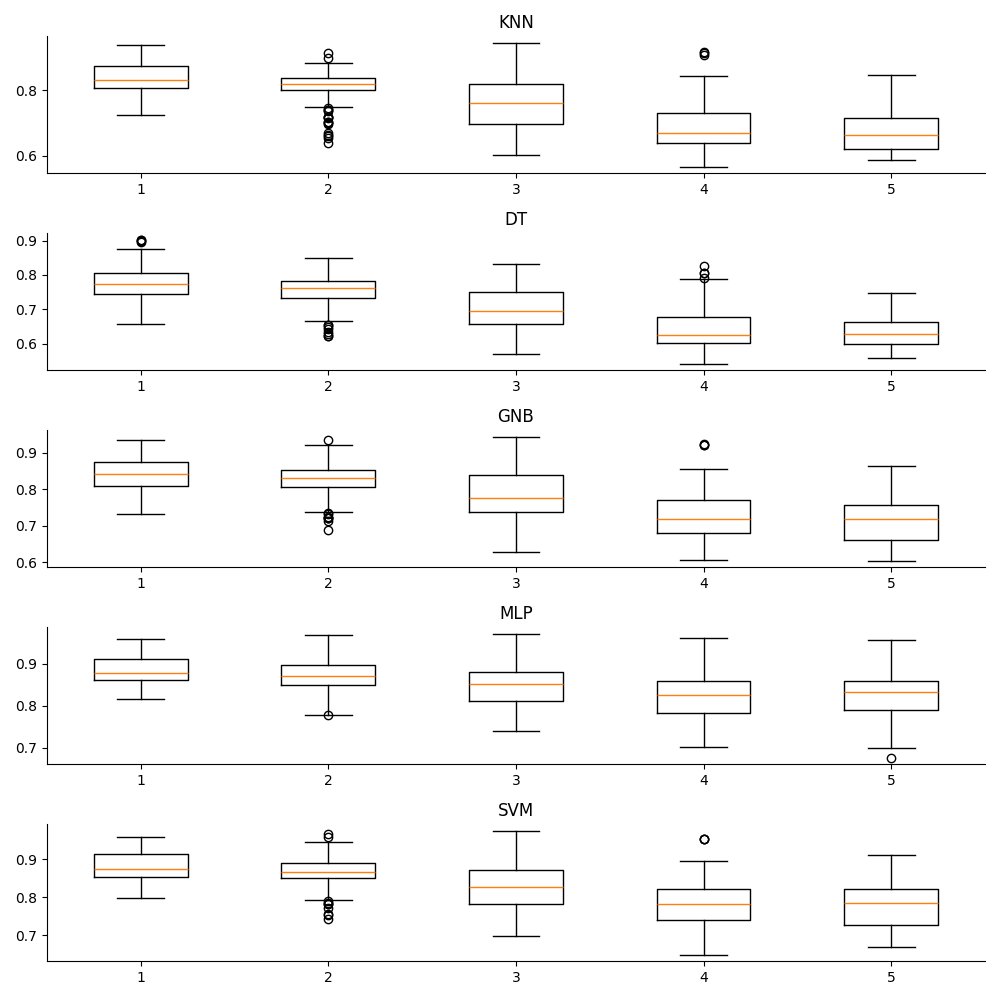
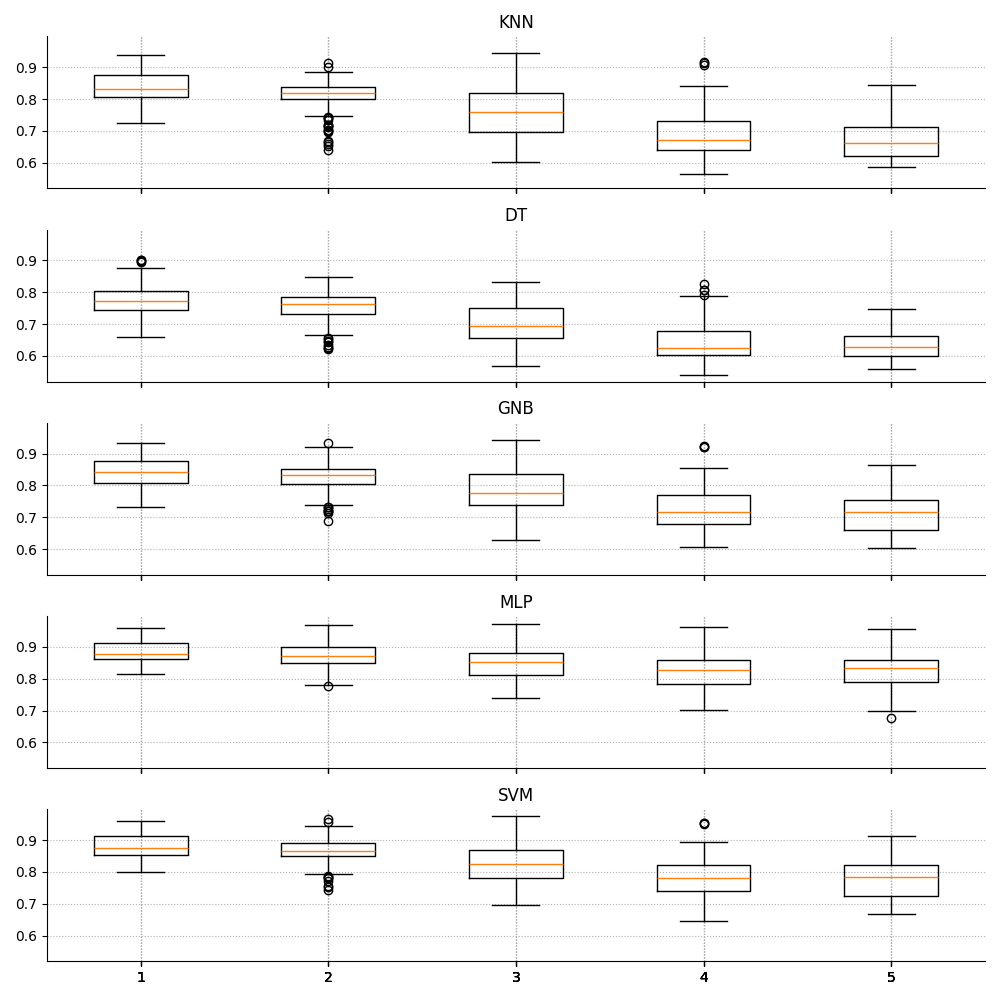
vis clf

diff --git a/e_combined_clf_vis.py b/e_combined_clf_vis.py
@@ -12,7 +12,7 @@ res_clf = np.mean(res_clf, axis=2)
 
 print(res_clf.shape) # (reps*datasets, targets, clfs)
 
-fig, ax = plt.subplots(5, 1, figsize=(10,10))
+fig, ax = plt.subplots(5, 1, figsize=(10,10), sharex=True, sharey=True)
 
 for clf_id, clf in enumerate(clfs):
     ax[clf_id].set_title(clf)
@@ -21,6 +21,7 @@ for clf_id, clf in enumerate(clfs):
 for aa in ax:
     aa.spines['top'].set_visible(False)
     aa.spines['right'].set_visible(False)
+    aa.grid(ls=':')
     
 plt.tight_layout()
 plt.savefig('foo.png')
